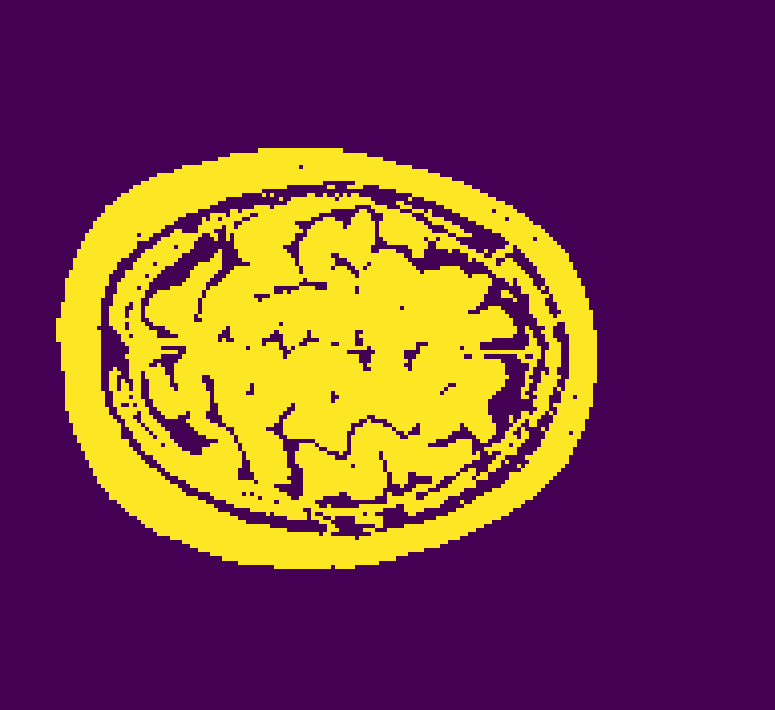
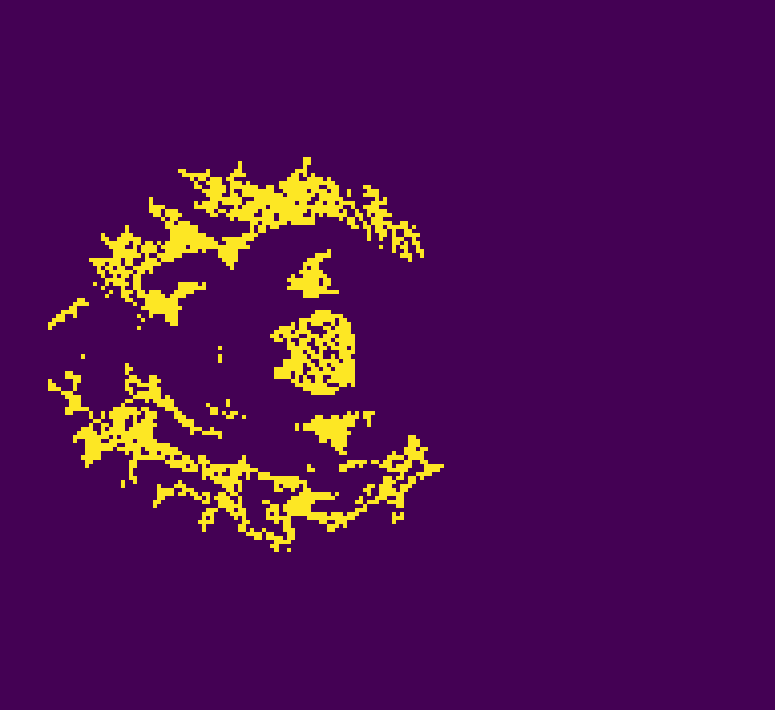
moving forth and back in history fdatas

Changed region(s): [[0.0619, 0.1859, 0.7742, 0.8056]]

diff --git a/main.py b/main.py
@@ -26,6 +26,7 @@ class App(customtkinter.CTk):
         self.image_showing_path = "./images/canvas.png" # image showing on canvas
         self.current_data = None # nifti file loaded and gotten data with get_fdata()
         self.history_data = [] # all data gotten with get_fdata(), the first beign the original data deprecated
+        self.current_position_in_history = 0
         self.points_drawings_history = []
         self.points_drawings_translated_to_fdata_history = []
         self.image = None
@@ -173,11 +174,21 @@ class App(customtkinter.CTk):
 
     def go_forth_in_history(self):
         print("go_forth_in_history")
-        pass
+        if len(self.history_data) > self.current_position_in_history+1:
+            self.current_data = self.history_data[self.current_position_in_history + 1]
+            self.current_position_in_history += 1
+            self.save_image_paint_canvas()
+        else:
+            print("Cant go forth in history, bc there is no more")
 
     def go_back_in_history(self):
         print("go_back_in_history")
-        pass
+        if self.current_position_in_history > 0:
+            self.current_data = self.history_data[self.current_position_in_history - 1]
+            self.current_position_in_history -= 1
+            self.save_image_paint_canvas()
+        else:
+            print("Cant go back in history, bc there is no more")
 
 
     def change_program_state_label(self,state):
@@ -439,6 +450,7 @@ class App(customtkinter.CTk):
             new_data = algoThresholding(copy(self.current_data), tau_value)
             self.current_data = new_data
             self.history_data.append(new_data)
+            self.current_position_in_history += 1
             self.save_image_paint_canvas()
             self.change_program_state_label("ready")
         except ValueError:
@@ -455,6 +467,7 @@ class App(customtkinter.CTk):
             new_data = isodataAlgo(copy(self.current_data))
             self.current_data = new_data
             self.history_data.append(new_data)
+            self.current_position_in_history += 1
             self.save_image_paint_canvas()
             self.change_program_state_label("ready")
 
@@ -469,6 +482,7 @@ class App(customtkinter.CTk):
             new_data = algoRegionGrowing(self.current_data, self.points_drawings_translated_to_fdata_history,intensity_value)
             self.current_data = new_data
             self.history_data.append(new_data)
+            self.current_position_in_history += 1
             self.save_image_paint_canvas()
             self.change_program_state_label("ready")
         except ValueError:
@@ -490,6 +504,7 @@ class App(customtkinter.CTk):
             print("kmeans finished")
             self.current_data = new_data
             self.history_data.append(new_data)
+            self.current_position_in_history += 1
             self.save_image_paint_canvas()
             self.change_program_state_label("ready")
         except ValueError:
